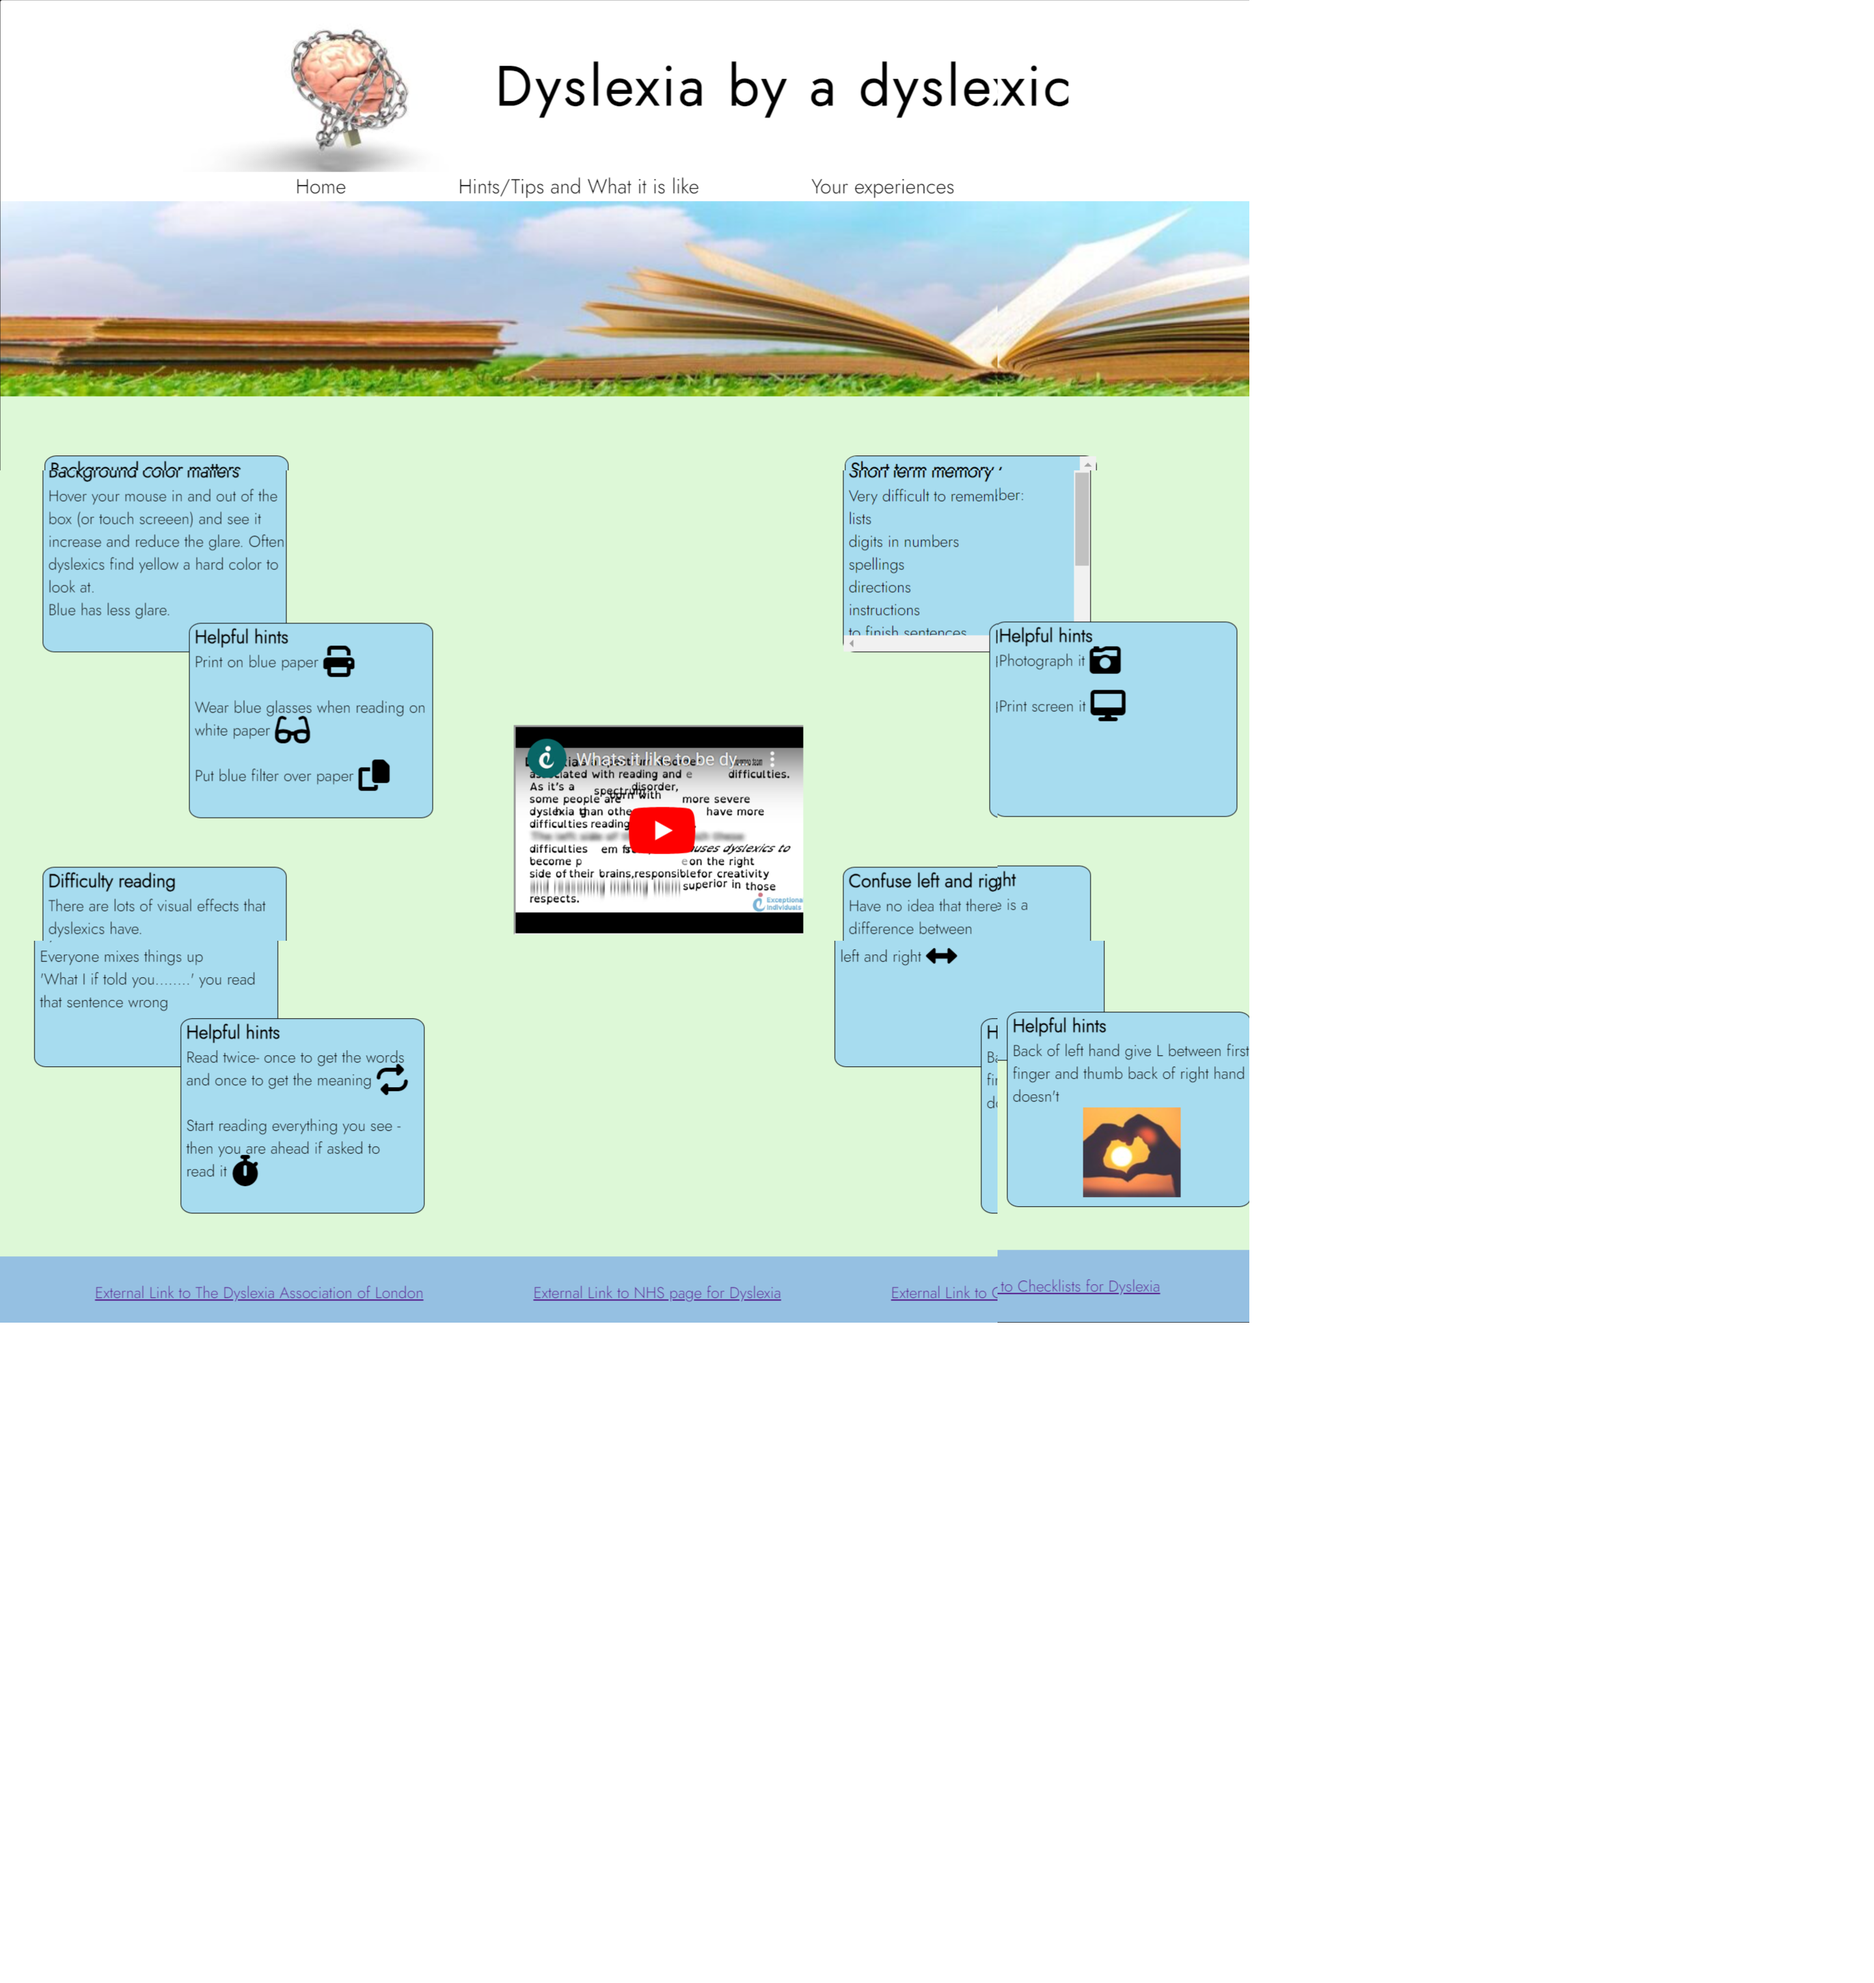
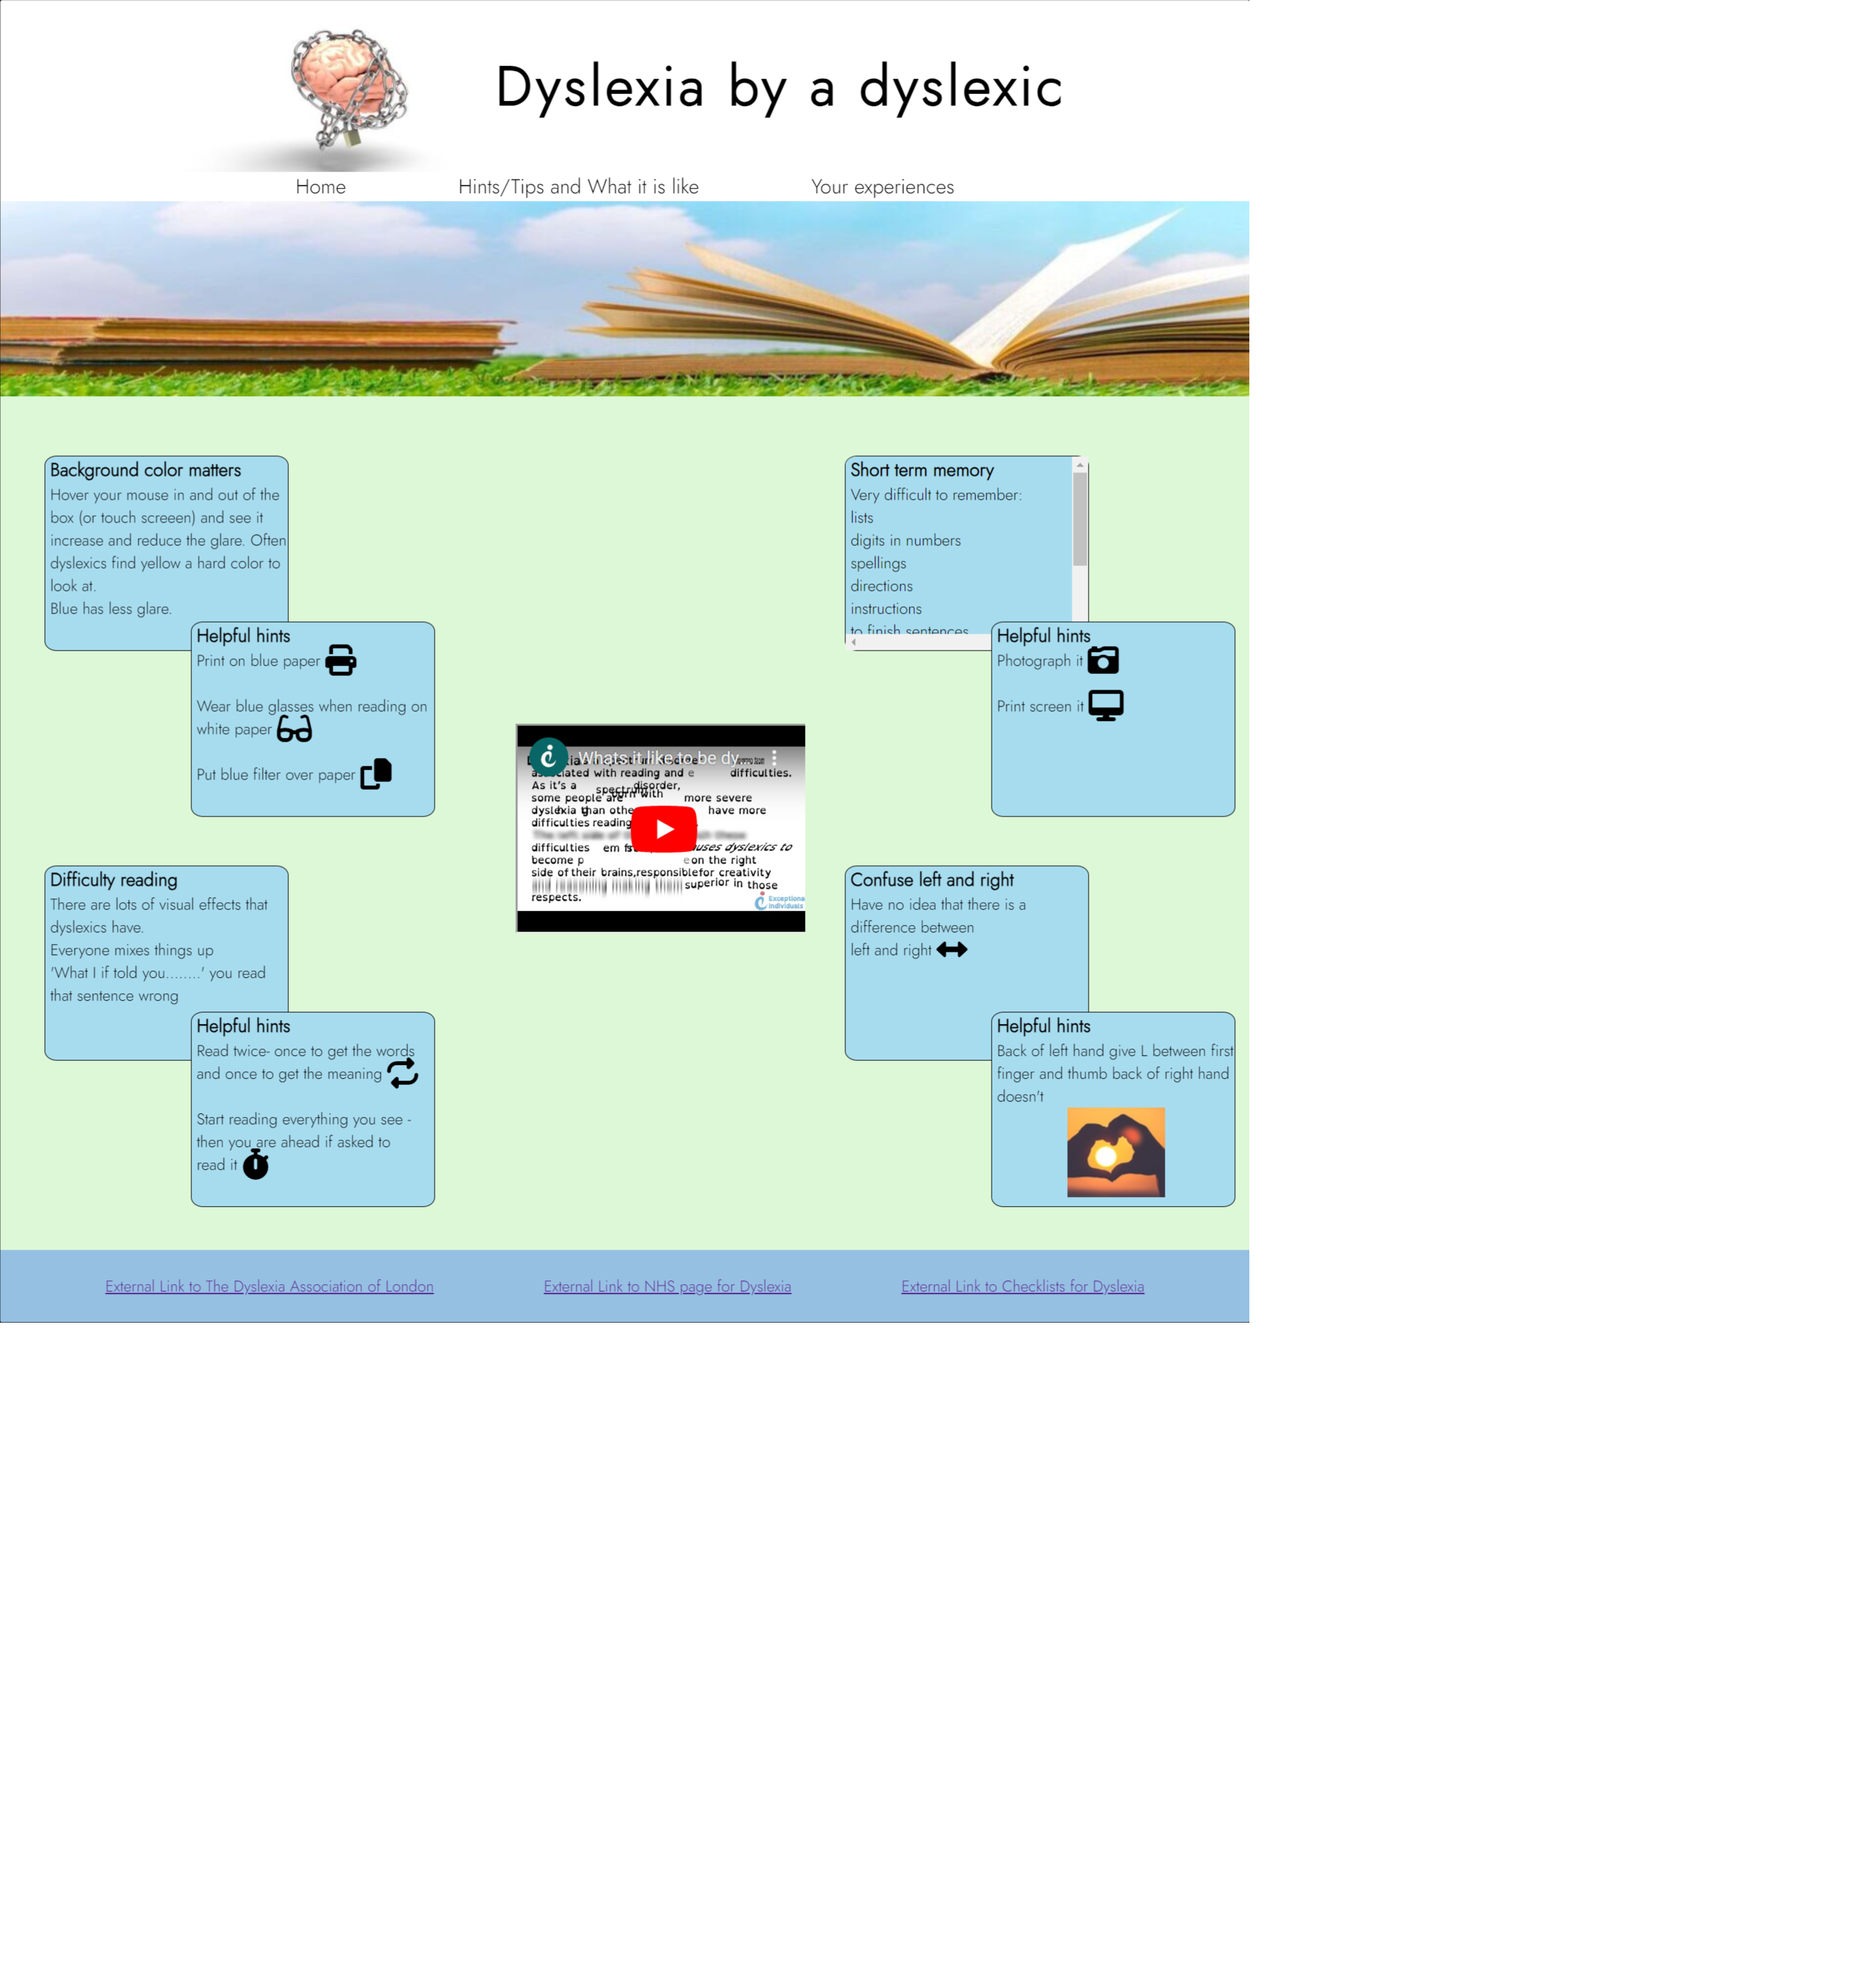
Add sections to testing  readme and fix bad images

diff --git a/hint_tip_like.html b/hint_tip_like.html
@@ -146,10 +146,10 @@
                             simple procedures
                         </li>
                         <li>
-                            Handwriting letter formation
+                            handwriting letter formation
                         </li>
                     </ul>
-                    </p>>
+                    </p>
                 </div>
                 <div class="box-outline top-right-infront">
                     <h3>Helpful hints</h3>

diff --git a/README.md b/README.md
@@ -134,6 +134,7 @@ Boxes in the main part of the page were hidden behind the footer, both text boxe
     .fill-background {
     min-height:60vh;
     margin-bottom:4em;
+    }
 
 Form didn't need to be filled (although did request correct types to be filled in) so could submit an empty of part filled form. Solution - Mentor reminded me of the HTML 'required' code in form items that need to be filled when I mentioned it to her that I still needed to do that. 
 
@@ -310,10 +311,53 @@ Thank you page
 - [Git](https://git-scm.com/) was used for the version control through Git Commit.
 - [GitHub](https://github.com/) was used to host the website.
 
+### Images/video and image production
+
+This project is for educational purposes and not commercial gain, therefore the images and videos have been used within their expressed purpose.
+
+Sites for images:
+
+- https://pixabay.com/
+- https://pxhere.com/
+- https://www.freepik.com/
+
+Images:
+
+- Logo image - https://pixabay.com/illustrations/brain-chain-health-idea-human-3446307/ Image by <a href="https://pixabay.com/users/quincecreative-1031690/?utm_source=link-attribution&utm_medium=referral&utm_campaign=image&utm_content=3446307">3D Animation
+
+- Hero Image - https://www.freepik.com/free-photo/open-book-grass_966471.htm#query=books&position=0&from_view=search&track=sph 
+<a href="https://www.freepik.com/free-photo/open-book-grass_966471.htm#query=books&position=0&from_view=search&track=sph">Image by jannoon028</a> 
+
+- Index page center image of blindfolded girl reading - https://pxhere.com/en/photo/1041474 no attribution required
+
+- Hands image - https://pxhere.com/en/photo/1041474 no attribution required
+
+To get the images as I wanted them I used:
 
 https://www.resizepixel.com/
-lots of code institute and W3 pages
-you tube for video
+
+Video was taken from youtube 
+
+https://www.youtube.com/watch?v=y-OqesxoR1k
+
+I adapted the share embed function to have it start at 12 seconds after the music bit. 
+
+The code that is supplied by this function is 
+
+    iframe width="560" height="315" src="https://www.youtube.com/embed/y-OqesxoR1k" title="YouTube video player" frameborder="0" allow="accelerometer; autoplay; clipboard-write; encrypted-media; gyroscope; picture-in-picture; web-share" allowfullscreen
+
+I wanted to start at 12 seconds and didn't want auto play etc. So this code was developed: 
+
+    iframe width="560" height="215" src="https://www.youtube.com/embed/y-OqesxoR1k?start=12" title="What dyslexia is like from Youtube video"
+
+### External links
+
+- External Link to The Dyslexia Association of London - https://www.dyslexialondon.org/
+
+- External Link to NHS page for Dyslexia - https://www.nhs.uk/conditions/dyslexia/
+
+- External Link to Checklists for Dyslexia - https://www.bdadyslexia.org.uk/dyslexia/how-is-dyslexia-diagnosed/dyslexia-checklists
+
  ## Attributation
 
  *,
@@ -324,23 +368,11 @@ you tube for video
   padding: 0;
 }
 
-This project is for educational purposes and not commercial gain, therefore the images and videos have been used within their expressed purpose.
-
 Significant inspiration and learning for this project was from my mentor showing me things in her repository.
 
-https://pxhere.com/en/photo/1041474
-<a href="https://www.freepik.com/free-photo/open-book-grass_966471.htm#query=books&position=0&from_view=search&track=sph">Image by jannoon028</a> on Freepik
-https://pixabay.com/illustrations/brain-chain-health-idea-human-3446307/ Image by <a href="https://pixabay.com/users/quincecreative-1031690/?utm_source=link-attribution&utm_medium=referral&utm_campaign=image&utm_content=3446307">3D Animation
+lots of code institute and W3 pages
 
-utube video
-
-https://www.dyslexialondon.org/
-https://www.nhs.uk/conditions/dyslexia/
-https://www.bdadyslexia.org.uk/dyslexia/how-is-dyslexia-diagnosed/dyslexia-checklists
-
-google fonts
-
-Icons if used
+Love running font awsome taken from love running that I did copying.
 
 ## Acknowledgements
 
@@ -352,18 +384,43 @@ My Partner - Ian Harris who has been extremely supportive while I have been work
 
 Code institute - For all the information and learning that I have done that contributed to this website. 
 
-Love running font awsome taken from love running that I did copying.
-
 ## Features
 ### Existing Features
-Every page will have navigation to the other pages in the header and links to other external resources in the footer.
-The landing page provides links to other pages to make it apparent what the site can be used for, explaining the purpose of the site. It also has a navigation bar in the top and links to internal pages in the main section to aid movement around the site.
+Every page has the logo, title and hero books on grass image to introduce the user to the website. 
 
-The next page is a page for people to see what dyslexia is like and provides solutions to some common experiences. This page has video in the center that gives some idea of how difficult it is to read as a dyslexic.
+There is navigation to the other pages in the header and links to other external resources in the footer. This allows the user to find the resources they want easily.
 
-There is also a box that changes color to give people some idea how blue can be a calming color to read against as opposed to glaring white or yellow. This part of the site is purposefully not a nice color or easy to read to show that this what dyslexics experience.
+Header
 
-Form to submit
+![header](documents/header.png)
+
+Footer
+
+![footer](documents/footer.png)
+
+The landing page provides boxes explaining the areas that might be of interest to the user and links to other pages on the site to make it apparent what the site can be used for and explaining the purpose of the site. It has a navigation bar in the top and links to internal pages in the main section to aid movement around the site.
+
+![index](documents/index-1280x800.png)
+
+The next page is a page for people to see what dyslexia is like and provides solutions to some common experiences. 
+
+![hints](documents/hints-1280x800.png)
+
+The hints page has video in the center that gives some idea of how difficult it is to read as a dyslexic. This should be useful visual for the user to understand dyslexia easily.
+
+There is also a box that changes color to give people some idea how blue can be a calming color to read against as opposed to glaring white or yellow. This part of the site is purposefully not a nice/easy to read color to show that this what dyslexics experience.
+
+There is a box that contains a list that you can scroll through to point out that dyslexia makes short term memory difficult. This will allow the user to associate with any short term memory issues.
+
+The remaining text on the page is descriptions or solutions with icons or images to help the user identify with the text.
+
+The third page is a form to submit your hints and experiences page requires you to enter your name and e-mail, has a box to give permission for contact to be made with the person by the site and a text box so that they can write about their experiences and tips. The submit button then takes you to a thank you page. This will make users feel included and allow useful user feedback which can be incorporated to improve user experience when it stores the data.
+
+![form](documents/form-1280x800.png)
+
+The thank you page should be displayed for 10 seconds then return you to the index page assuming you haven't already clicked a link. This allows the user to know that their form has been submitted.
+
+![thanks](documents/thank-1280x800.png)
 
 ### Features Left to Implement
 
@@ -380,6 +437,3 @@ Error page that provides a 404 error with sites header and footer built in.
 Consistent and more frequent commit messages that are in the correct format for future commits.
 
 Youtube video to go back to the start not continue to other content.
-
-### Links
-### Functions

diff --git a/testing.md b/testing.md
@@ -12,6 +12,10 @@ Pat Walmsley suggested to alternative wording and text positioning and size chan
 
 Sarah Walmsley and Ian Harris did not report any bugs.
 
+## Validators
+
+## Accessiblity through light house
+
 ## Functions testing.
 
 Tested function on Chrome/Safari/Edge/Firefox following the table below:
